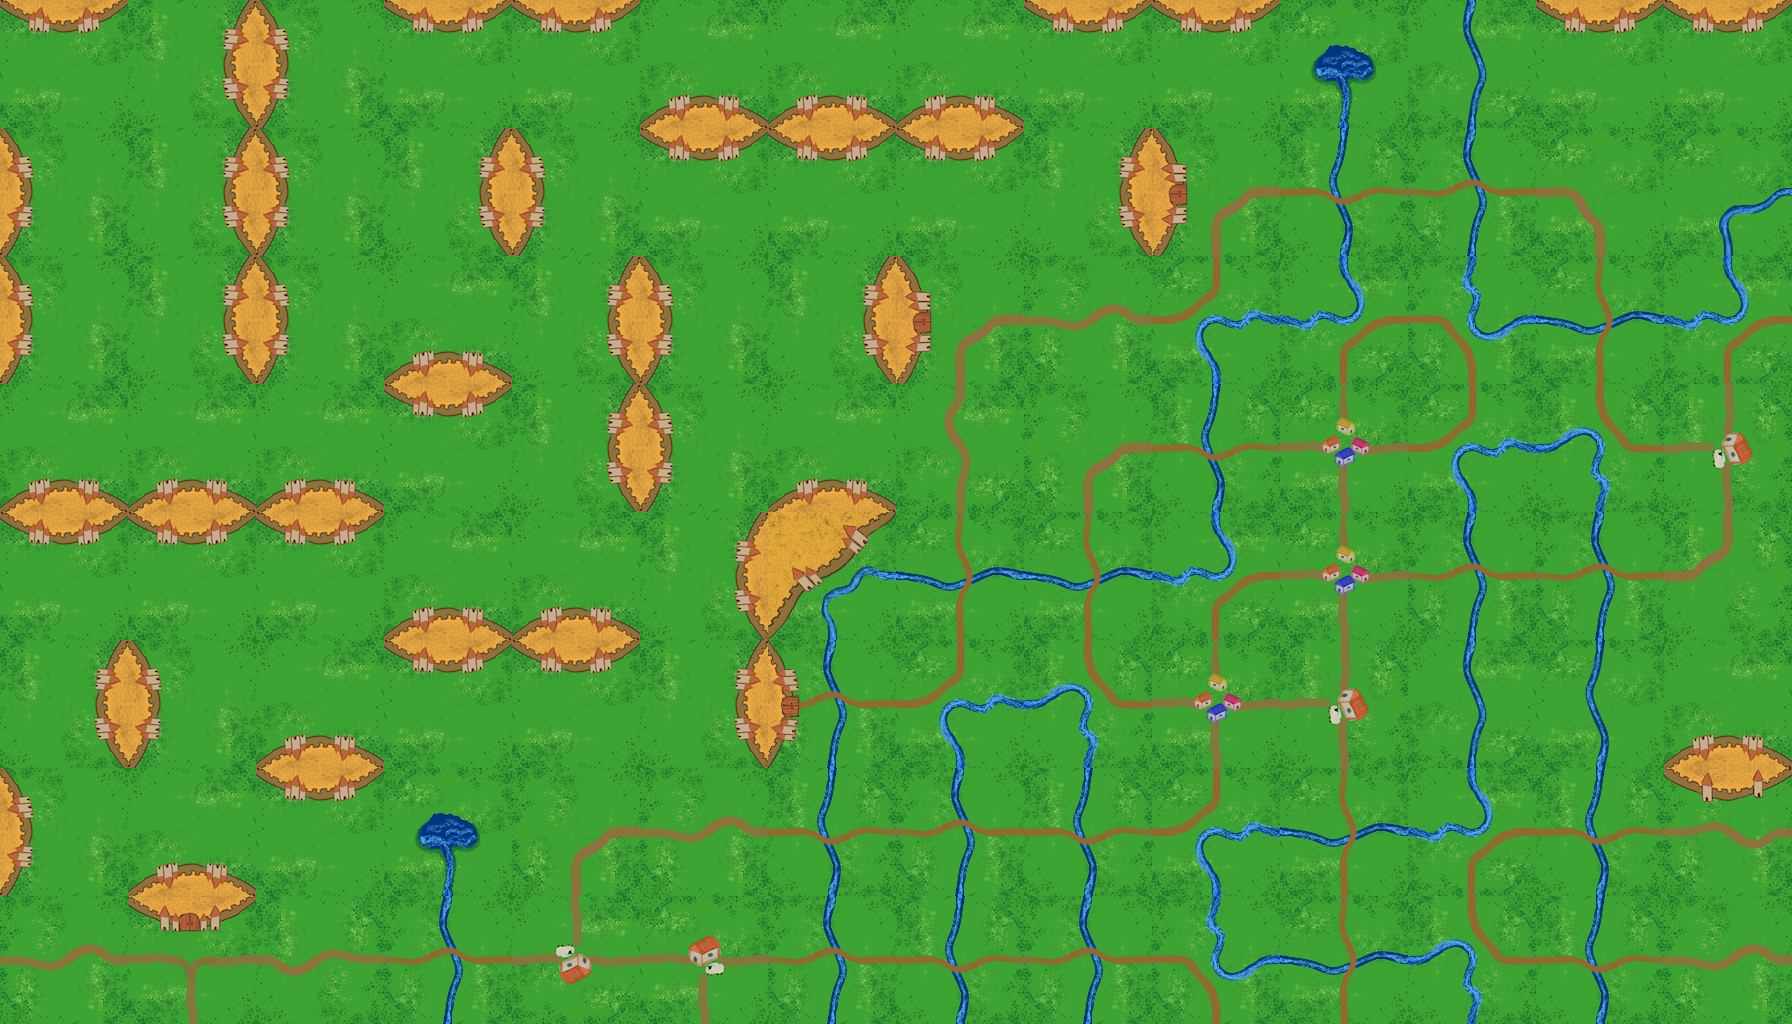
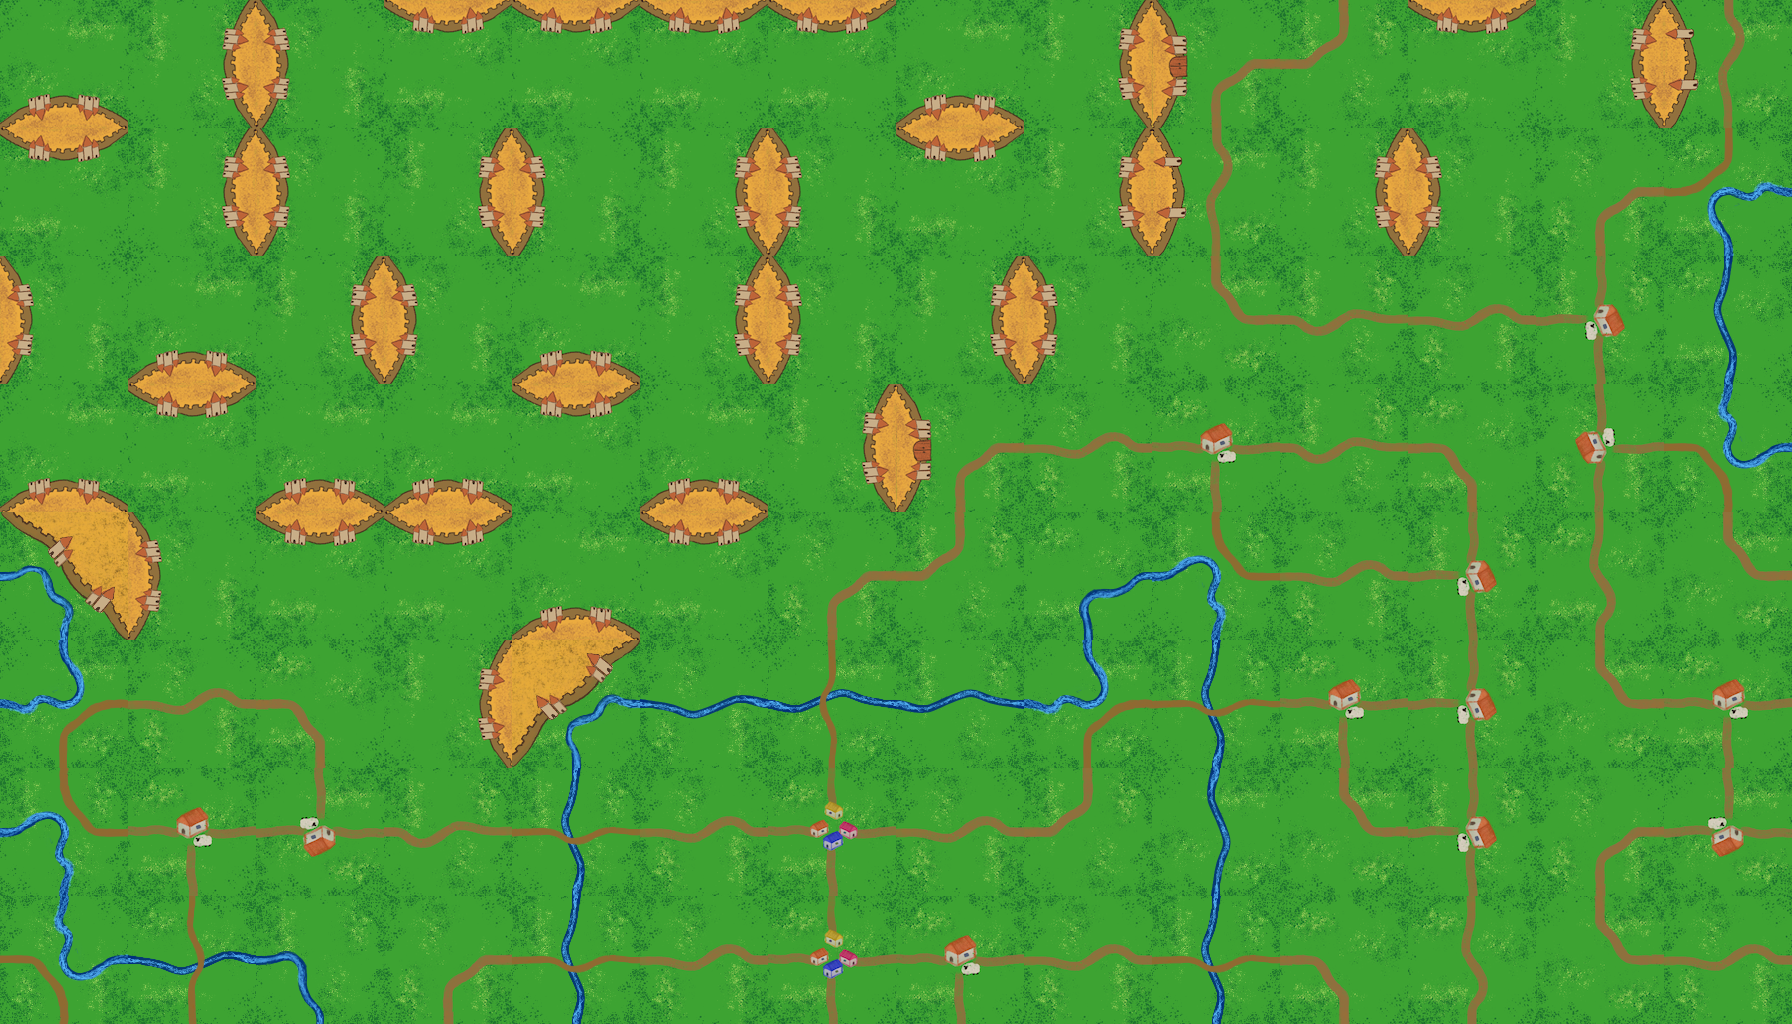
fixed collapse from getting stuck
fixed collapse from getting stuck

diff --git a/HSWFC.py b/HSWFC.py
@@ -16,6 +16,7 @@ meta_tiles = ["village", "castle", "land", "road", "water", "house"]
 
 terminal_q = Queue()
 collapsed_tiles = Queue()
+tiles_collapsed =[]
 
 
 for i in range(28):
@@ -161,7 +162,7 @@ class Tile:
     def collapse(self):
         print("current tile:", self.c, self.r, "with entropy", self.entropy)
         self.collapsed = True
-        if len(self.potentialTiles) > 1:  
+        if len(self.potentialTiles) > 0:  
             #decide which tile depending on their weight 
             weight = 0 
             potTiles=[]
@@ -202,12 +203,15 @@ class Tile:
             self.sockets = potTile["SOCKETS"]
             self.id = potTile["ID"]
             self.entropy = 0
-            self.img = pygame.transform.rotate(self.img, -potTile["ROTATION"] * 90)            
+            self.img = pygame.transform.rotate(self.img, -potTile["ROTATION"] * 90)
+            tiles_collapsed.append(self)           
         else:
             self.collapsed = False
             self.potentialTiles = list(metadata)
             print("no potential tiles left, backtracking")
             explode_neighbors(self)
+            last_collapsed = tiles_collapsed.pop()
+            explode_neighbors(last_collapsed)
         
         
 # DD. GRID
